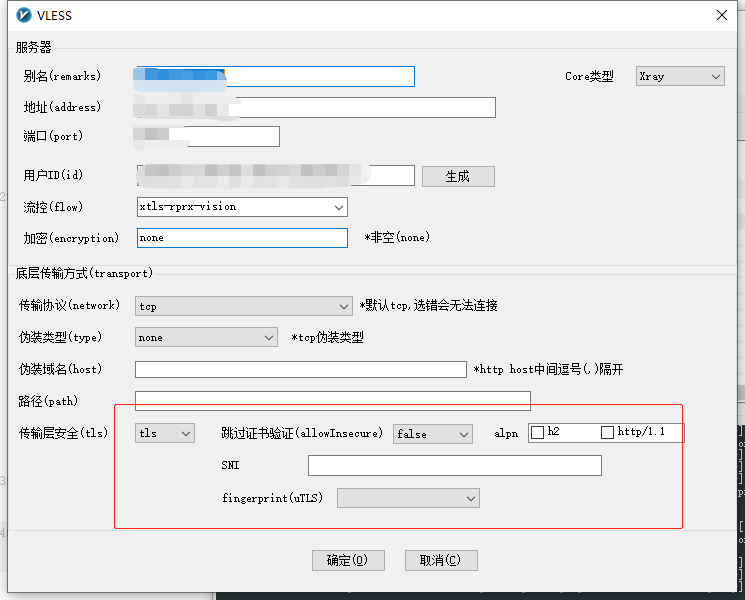
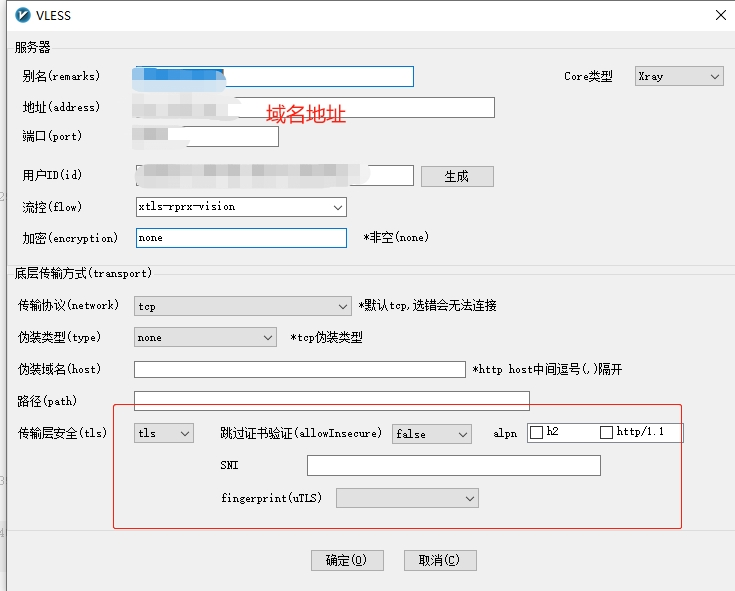
修改文章

diff --git a/source/_posts/xray的vless-xtls-vision配置.md b/source/_posts/xray的vless-xtls-vision配置.md
@@ -307,6 +307,9 @@ systemctl restart nginx
 在生成证书的时候，可能需要停启Nginx和建立对应的目录。
 可以使用xray提供的客户端配置文件去设置v2rayN安置目录里面的config.json，也可以通过图形化接口设置。如果使用v2rayN作为Windows客户的访问的时候，要记得配置底层传输方式，不然范围不通。
 ![示例](./xray的vless-xtls-vision配置/set.png)
+访问的时候最好通过域名访问，不然可能访问失败，客户端提示：
+![错误1](./xray的vless-xtls-vision配置/err1.png)
+服务端的日志为：app/proxyman/inbound: connection ends > proxy/vless/inbound: fallback ends > proxy/vless/inbound: failed to fallback request payload > tls: no certificates configured
 
 参考：
 
